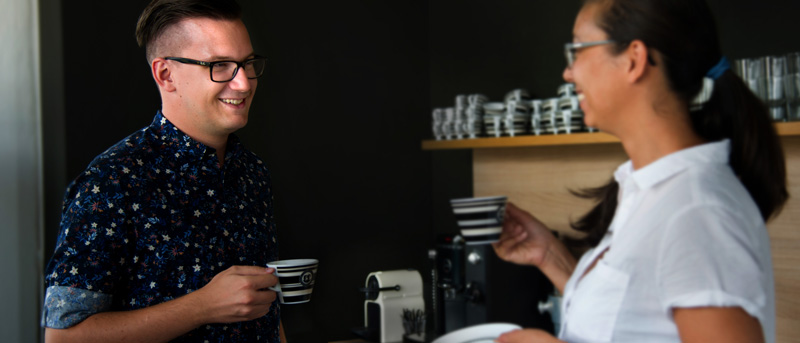
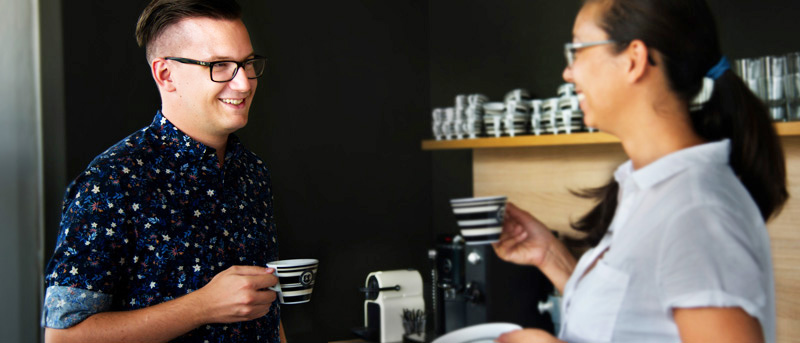
[patch] contact page image brightened and margin

diff --git a/dist/contact/index.html b/dist/contact/index.html
@@ -66,8 +66,8 @@
   Thomas Schorn<br>  c/o AXIS Linz - Coworking Loft<br>  Peter-Behrens-Platz 2, OG 1<br>  4020 Linz
 </p>
 
-<h2 id="impressum">Impressum</h2>
-<p>Für den Inhalt dieser Seite verantwortlich: Thomas Schorn c/o AXIS Linz - Coworking Loft,<br>Peter-Behrens-Platz 2, OG 1, 4020 Linz</p>
+<p class="center">
+  <a href="/imprint">Impressum</a><br></p>
 
       </div>
     </div>

diff --git a/dist/static/style.css b/dist/static/style.css
@@ -290,6 +290,7 @@ h3 {
       transform: none; } }
 
 .center {
+  margin: 2em 0;
   text-align: center; }
 
 .panorama-image {

diff --git a/styles/main.scss b/styles/main.scss
@@ -67,6 +67,7 @@ p {
 }
 
 .center {
+  margin: 2em 0;
   text-align: center;
 }
 

diff --git a/src/contact.md b/src/contact.md
@@ -16,7 +16,6 @@
   4020 Linz
 </p>
 
-## Impressum
-
-Für den Inhalt dieser Seite verantwortlich: Thomas Schorn c/o AXIS Linz - Coworking Loft,  
-Peter-Behrens-Platz 2, OG 1, 4020 Linz
+<p class="center">
+  [Impressum](/imprint)  
+</p>
